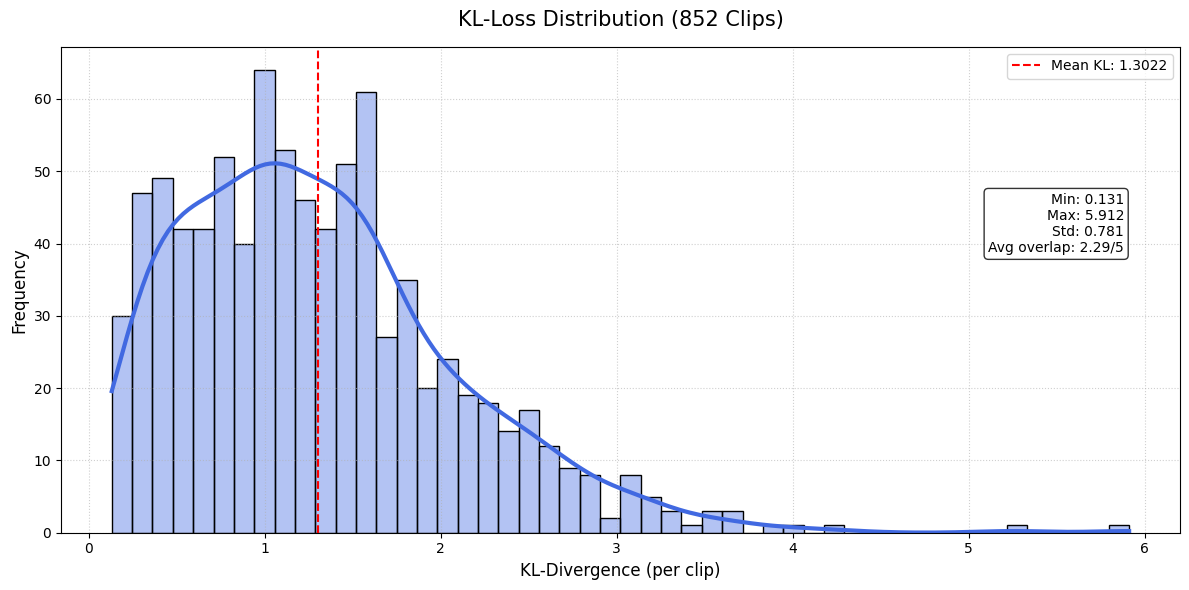
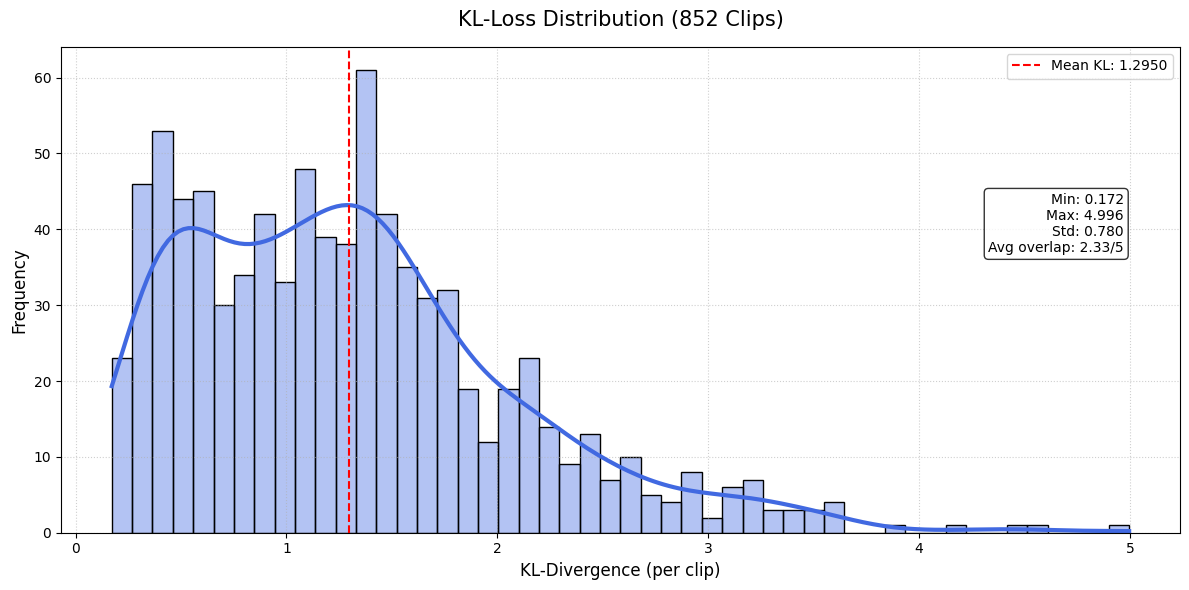
Publish clean retrain results across 5 seeded splits
The previous table re-scored a checkpoint trained before SPLIT_SEED
existed, so part of its test set had been seen in training. Retrained
from scratch with the committed notebook and repeated over 5 splits;
README now reports mean ± sd with per-split baselines, and the charts
come from the clean seed-42 run.

Also corrects the tower and temperature descriptions, drops the
unmeasured attention-collapse claim, and points DRIVE_DATA_DIR at the
folder holding the sequence embeddings.

Claude-Session: https://claude.ai/code/session_01YEaHUEjb3tgxsurYX7W9oP

diff --git a/README.md b/README.md
@@ -75,15 +75,15 @@ Audio [125, 768] ─► Audio Tower  ──┘               │
                                           Log-Softmax (50-dim)
 ```
 
-**Visual Tower** and **Audio Tower** each independently compress their input modality through a 3-stage bottleneck (LayerNorm → Linear → GELU, repeated) down to 128-dim, with dropout for regularization.
+**Visual Tower** and **Audio Tower** are applied token-wise. Each normalizes its input once with LayerNorm, then compresses it through three Linear → GELU stages (input → 256 → 128 → 128), with dropout after the first.
 
 **CrossAttentionBottleneck** performs bidirectional cross-modal attention: the visual representation queries audio ("what audio events are consistent with this scene?") and the audio representation queries video ("what visual events match this audio spike?"). Residual connections and LayerNorm are applied after each attention operation. The attended sequences are then mean-pooled over their sequence dimension, giving one vector per modality.
 
-The fused representation is concatenated with a learned **per-channel embedding** (64-dim) that encodes which Twitch channel the clip is from. Different Twitch communities develop distinct emote vocabularies and react to the same events differently — a clutch play on a VCT broadcast elicits different emotes than the same play on a smaller streamer's channel. The channel embedding gives the model a way to condition its predictions on those community-specific norms rather than averaging over them.
+The fused representation is concatenated with a learned **per-channel embedding** (64-dim) that encodes which Twitch channel the clip is from. Different Twitch communities develop distinct emote vocabularies and react to the same events differently — a clutch play on a VCT broadcast elicits different emotes than the same play on a smaller streamer's channel. The channel embedding gives the model a way to condition its predictions on those community-specific norms rather than averaging over them. The reported model is trained on a single channel, so there the embedding is one learned vector, equivalent to a bias; it only carries information when several channels are trained together.
 
 A **fusion projection** compresses the concatenated 320-dim vector (128 visual + 128 audio + 64 channel) down to a 64-dim trunk. Two **ResidualBlock** layers (LayerNorm → Linear → GELU → Dropout → Linear → Dropout, with skip connection) then process it before the final head.
 
-**Per-class temperature scaling** (a learned scalar per output class) sharpens or softens predictions independently for each emote, allowing the model to express calibrated uncertainty.
+**Per-class temperature scaling** (a learned scalar per output class, clamped to [0.5, 3.0]) sharpens or softens predictions independently for each emote. It is trained jointly with the rest of the model rather than fitted afterwards, so it is not a calibration step; in the reported runs the learned temperatures end between about 0.87 and 1.11.
 
 ### Training Details
 
@@ -94,7 +94,7 @@ A **fusion projection** compresses the concatenated 320-dim vector (128 visual +
 | LR Schedule | Linear warmup (5 epochs) → cosine annealing |
 | Mixup | α=0.5 (epochs 0–19) → 0.2 (20–34) → 0.0 (35+) |
 | Early stopping | Patience = 20 epochs |
-| Label smoothing | 0.025 (per-channel, applied to valid emotes only) |
+| Label smoothing | 0.025, spread over the emotes present in that VOD's vocabulary |
 | Feature noise | Gaussian noise σ=0.02 injected during training |
 | Dropout | 0.7 (fusion trunk), 0.2 (towers), 0.1 (input features) |
 | Batch size | 64 |
@@ -108,7 +108,7 @@ A **fusion projection** compresses the concatenated 320-dim vector (128 visual +
 ## Dataset
 
 - **Source**: 12 Twitch VODs across 4 Valorant channels (Riot Games Valorant, FNS, VCT Americas, VCT EMEA), scraped into 8,000+ labelled clips
-- **Trained on**: the 3 VCT (Valorant Champions Tour) VODs from the official Riot Games Valorant channel — 4,000+ clips. Mixing channels degraded accuracy, so the reported run is single-channel (see [Limitations](#limitations--future-work))
+- **Trained on**: the 3 VCT (Valorant Champions Tour) VODs from the official Riot Games Valorant channel — 4,257 clips after filtering (3,405 train / 852 test). Mixing channels degraded accuracy, so the reported run is single-channel (see [Limitations](#limitations--future-work))
 - **Clip length**: 15 seconds, 64 frames at 256×256 (center-cropped)
 - **Target**: Normalized emote-frequency vector over a global vocabulary of 50 emotes
 - **Emote sources**: Twitch native + BTTV + FFZ + 7TV
@@ -120,15 +120,15 @@ Clips are only included if their window contains at least 5 emote occurrences, f
 
 ## Results
 
-Evaluated on 852 held-out test clips (80/20 split, `SPLIT_SEED = 42`):
+Mean ± standard deviation over 5 training runs, each on a different random 80/20 split (`SPLIT_SEED` = 42, 0, 1, 2, 3) and scored on its own 852 held-out clips. The baselines are recomputed on each run's split.
 
 | Metric | Model | Frequency prior | Uniform random |
 |---|---|---|---|
-| Distribution overlap | **41.8%** | 26.8% | 15.8% |
-| Average KL loss | **1.3092** | 1.7516 | — |
-| Top-1 exact match | **32.2%** | 16.4% | 2.0% |
-| Top-1 in top-5 accuracy | **67.0%** | 45.5% | 10.0% |
-| Top-5 overlap (avg) | **2.29 / 5** (45.8%) | 1.67 / 5 (33.4%) | 0.50 / 5 (10.0%) |
+| Distribution overlap | **41.0% ± 0.5** | 27.1% ± 0.2 | 16.0% |
+| Average KL loss | **1.30 ± 0.02** | 1.74 ± 0.01 | — |
+| Top-1 exact match | **29.3% ± 0.8** | 16.8% ± 0.3 | 2.0% |
+| Top-1 in top-5 accuracy | **66.4% ± 1.2** | 46.9% ± 1.2 | 10.0% |
+| Top-5 overlap (avg) | **2.32 / 5** ± 0.03 | 1.63 / 5 ± 0.03 | 0.50 / 5 |
 
 **Distribution overlap** is the primary measure: `sum(min(predicted, actual))` across all 50 emotes, equivalently `1 − total variation distance`. It reads as the share of chat's emote mix the model placed correctly. Unlike the ranking metrics it needs no cutoff and no `argmax`, so it evaluates the model on what it actually produces — a full probability distribution over the vocabulary.
 
@@ -138,9 +138,9 @@ Evaluated on 852 held-out test clips (80/20 split, `SPLIT_SEED = 42`):
 
 **Top-1 in top-5** and **Top-5 overlap** are precision@1 and precision@5 against a 5-emote relevance set — chat's five most-used emotes for that clip. Both are easy to read, but both binarize a continuous distribution into a relevance set and discard everything below the cutoff, so they answer a narrower question than the model was trained on. They are reported for legibility, not as the primary measure.
 
-**Baselines.** Twitch chat is top-heavy, so a predictor that ignores the clip entirely still scores well: the *frequency prior* ranks emotes by their total mass in the training clips and predicts that same ranking for every test clip, and it still places 26.8% of chat's emote mix correctly and names the top emote 16.4% of the time. The *uniform random* column is the expectation of spreading mass evenly across the 50-emote vocabulary. The model beats the prior on every metric (+15.0 pts distribution overlap, 0.4424 lower KL, +15.8 pts top-1 exact, +21.5 pts top-1-in-top-5, +0.62 top-5 overlap), which is the comparison that matters — a good fraction of the headline numbers is available without looking at the video or audio at all. Both baselines are computed in the Baselines cell of `train.ipynb`, on the same test split.
+**Baselines.** Twitch chat is top-heavy, so a predictor that ignores the clip entirely still scores well: the *frequency prior* ranks emotes by their total mass in the training clips and predicts that same ranking for every test clip, and it still places 27.1% of chat's emote mix correctly and names the top emote 16.8% of the time. The *uniform random* column is the expectation of spreading mass evenly across the 50-emote vocabulary. The model beats the prior on every metric in every run (on average +13.9 pts distribution overlap, 0.44 lower KL, +12.5 pts top-1 exact, +19.4 pts top-1-in-top-5, +0.69 top-5 overlap), which is the comparison that matters — a good fraction of the headline numbers is available without looking at the video or audio at all. Both baselines are computed in the Baselines cell of `train.ipynb`, on the same test split as the model.
 
-**Run-to-run spread.** An earlier evaluation of this architecture, before `SPLIT_SEED` was added, drew a different random 852-clip test set and scored 64.2% top-1-in-top-5 at KL 1.3022 — with top-5 overlap landing on the same 2.29 / 5. Treat the ranking metrics as carrying roughly ±3 points of split noise and do not read the decimal place as meaningful.
+**Run-to-run spread.** Across the five runs, distribution overlap stays within 40.1–41.4% and its gap over the prior within 13.2–14.3 points; the ranking metrics move more (top-1-in-top-5 64.4–67.6%). The charts below are from the `SPLIT_SEED = 42` run (best epoch 25 of 45; 41.1% overlap, 66.8% top-1-in-top-5).
 
 **Evaluation caveat.** The held-out set drives early stopping and checkpoint selection as well as final reporting, so it functions as a validation set and the figures above are mildly optimistic. The 80/20 split is also random over clips, and clips are consecutive 15-second windows from the same broadcasts — so a test clip's neighbours frequently appear in training. A grouped split (holding out whole VODs) would be the stricter evaluation, and would likely score lower. The baselines above received no such tuning, so the gap between the model and the frequency prior is, if anything, slightly flattered.
 
@@ -194,7 +194,7 @@ This is a research and educational project.
 
 ## Limitations & Future Work
 
-**Dataset scale.** The `CrossAttentionBottleneck` operates over full token sequences — 32 temporal video tokens and 125 audio tokens — allowing each modality to attend to specific moments in the other. In practice, with ~4,000 training clips the attention weights tend to collapse toward uniform across tokens, making the mechanism roughly equivalent to mean pooling. The architecture is sound but data-limited: sequence-level cross-attention needs appreciably more examples to learn meaningful temporal correspondences. More training clips is the primary path to improving the model — though see below on *which* clips.
+**Dataset scale.** The `CrossAttentionBottleneck` operates over full token sequences — 32 temporal video tokens and 125 audio tokens — allowing each modality to attend to specific moments in the other. With ~3,400 training clips, sequence-level cross-attention has little data to learn temporal correspondences from, and it did not outperform an earlier version that attended over single pooled vectors. Whether the attention weights are doing more than averaging has not been measured — logging their entropy is the direct check. More training clips is the primary path to improving the model — though see below on *which* clips.
 
 **Cross-channel generalization.** The scraped corpus spans four channels; the reported model trains on one. Including the other channels' clips degraded accuracy enough that the corpus was restricted to the Riot Games Valorant channel. The per-channel embedding was designed for exactly this case — conditioning predictions on community-specific emote vocabularies — and at this scale it was not sufficient to absorb the shift between a tournament broadcast's chat and an individual streamer's. Whether that is a data-volume limit or an architectural one is untested: more clips *per channel*, rather than more channels, is the experiment to run.
 
